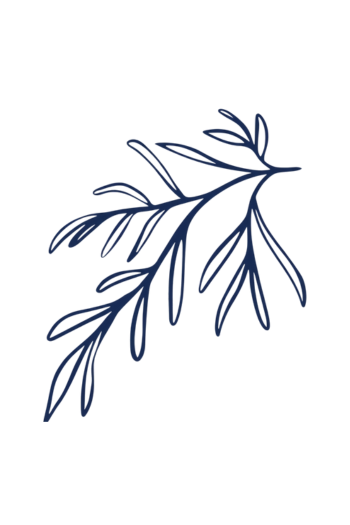
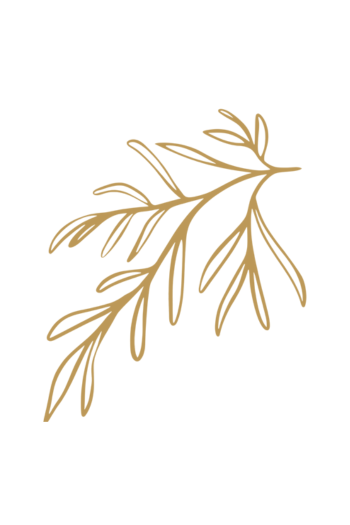
theme color changed

Changed region(s): [[0.1143, 0.1829, 0.8857, 0.8229]]

diff --git a/css/style.css b/css/style.css
@@ -105,7 +105,7 @@ section {
 .sb-search__button {
   border: none;
   border-radius: 0;
-  background-color: var(--primary-color);
+  background-color: var(--secondary-color);
   color: #ffffff;
   width: 72px;
   height: 56px;
@@ -153,7 +153,7 @@ section {
 }
 
 .sb-main-nav__link--active {
-  background-color: var(--primary-color);
+  background-color: var(--secondary-color);
   color: #ffffff;
 }
 
@@ -233,7 +233,7 @@ section {
 .sb-topcat__card {
   border-radius: 26px;
   padding: 12px;
-  border: 4px solid var(--primary-color);
+  border: 4px solid var(--secondary-color);
   background-color: #ffffff;
 }
 
@@ -336,7 +336,7 @@ section {
   margin: 0;
   font-family: var(--bricol-font);
   font-size: clamp(1.9rem, 2.6vw, 2.4rem);
-  color: var(--secondary-color);
+  color: #fff;
 }
 
 .sb-arrivals__leaf {
@@ -822,7 +822,7 @@ section {
 .sb-reviews__title {
   font-family: var(--bricol-font);
   font-size: clamp(1.9rem, 2.5vw, 2.3rem);
-  color: var(--secondary-color);
+  color: var(--primary-color);
 }
 
 .sb-reviews__item {
